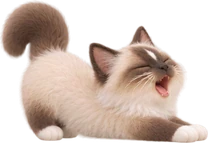
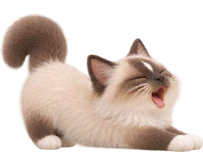
고양이 루비: 카운터 앞으로 나오게, 걸을 때 크기 흔들림 제거(같은 캔버스·몸 크기 맞춤), 이름 표시
Claude-Session: https://claude.ai/code/session_011wWXPaiuu8PZPFdYFKdKKY

diff --git a/src/components/House.tsx b/src/components/House.tsx
@@ -79,11 +79,6 @@ export default function House({ activities, alerts, cheers, labels, shown, speec
         <rect key={r.id} className="hot" x={r.rect.x} y={r.rect.y} width={r.rect.w} height={r.rect.h} fill="#fff" fillOpacity="0"
           onClick={(e) => { if (onMove) { const q = toHouse(e); if (q) return onMove(q.x, q.y) } onRoom(r.id) }} role="button" aria-label={`${r.name} 확대`} />
       ))}
-      {cats && (
-        <g>
-          <Cat id="cat1" start={{ x: 640, y: 408 }} offset={-10} avoid={avatarSpots} />
-        </g>
-      )}
       {/* 나(관리자)는 접수대 안쪽에 서 있고, 카운터 그림이 앞에 놓여요. 일을 받으러 온 아바타는 카운터 앞에 서야 하므로 그 뒤에 그려요 */}
       {/* 다크 하우스는 접수실 나무 바닥이 조금 더 아래에서 시작해서, 카운터와 나를 그만큼 내려요 */}
       <g transform={`translate(0 ${dark ? COUNTER_DARK_DROP : 0})`}>
@@ -101,6 +96,11 @@ export default function House({ activities, alerts, cheers, labels, shown, speec
         </text>
       </g>
       </g>
+      {cats && (
+        <g>
+          <Cat id="cat1" start={{ x: 640, y: 408 }} offset={-10} avoid={avatarSpots} />
+        </g>
+      )}
       {AVATARS.filter((a) => a.id !== 'user' && shown.includes(a.id)).map((info, i) => (
         <Avatar key={info.id} info={info} activity={activities[info.id]} alert={alerts[info.id as Staff]} cheer={cheers[info.id]} taskLabel={labels[info.id as Staff]} speech={speech[info.id]} onReceived={onReceived} onManualArrived={onManualArrived} dark={dark}
           delay={i * 0.3} selected={selected === info.id} onSelect={onSelect} />

diff --git a/src/cats.gen.ts b/src/cats.gen.ts
@@ -1,87 +1,87 @@
 // tools/process_cats.py 가 만든 파일이에요. 직접 고치지 마세요.
 export const CAT_DIM: Record<string, { w: number; h: number }> = {
  "walk0": {
-  "w": 136,
-  "h": 130
+  "w": 135,
+  "h": 129
  },
  "walk1": {
-  "w": 138,
-  "h": 126
+  "w": 135,
+  "h": 129
  },
  "walk2": {
-  "w": 129,
-  "h": 128
+  "w": 135,
+  "h": 129
  },
  "walk3": {
-  "w": 131,
-  "h": 126
+  "w": 135,
+  "h": 129
  },
  "walk4": {
-  "w": 132,
-  "h": 123
+  "w": 135,
+  "h": 129
  },
  "walk5": {
-  "w": 129,
-  "h": 122
+  "w": 135,
+  "h": 129
  },
  "walk6": {
-  "w": 127,
-  "h": 125
+  "w": 135,
+  "h": 129
  },
  "walk7": {
-  "w": 120,
-  "h": 126
+  "w": 135,
+  "h": 129
  },
  "sit0": {
-  "w": 126,
-  "h": 162
+  "w": 132,
+  "h": 163
  },
  "sit1": {
   "w": 132,
-  "h": 158
+  "h": 163
  },
  "sit2": {
-  "w": 126,
-  "h": 156
+  "w": 132,
+  "h": 163
  },
  "stretch0": {
-  "w": 167,
-  "h": 144
+  "w": 203,
+  "h": 152
  },
  "stretch1": {
-  "w": 208,
-  "h": 143
+  "w": 203,
+  "h": 152
  },
  "stretch2": {
-  "w": 197,
-  "h": 143
+  "w": 203,
+  "h": 152
  },
  "sleep0": {
-  "w": 150,
-  "h": 117
+  "w": 154,
+  "h": 119
  },
  "sleep1": {
-  "w": 156,
-  "h": 118
+  "w": 154,
+  "h": 119
  },
  "groom0": {
-  "w": 118,
-  "h": 164
+  "w": 117,
+  "h": 162
  },
  "groom1": {
-  "w": 111,
-  "h": 157
+  "w": 117,
+  "h": 162
  },
  "aegyo0": {
-  "w": 129,
-  "h": 156
+  "w": 187,
+  "h": 166
  },
  "aegyo1": {
-  "w": 139,
-  "h": 156
+  "w": 187,
+  "h": 166
  },
  "aegyo2": {
-  "w": 207,
-  "h": 140
+  "w": 187,
+  "h": 166
  }
 }

diff --git a/src/components/Cat.tsx b/src/components/Cat.tsx
@@ -119,13 +119,19 @@ export default function Cat({ id, start, offset, tint, onNear, avoid }: { id: st
   const W = d.w * SCALE, H = d.h * SCALE
   const flip = st.face === 'l' && !aegyo
   return (
-    <g className="cat" style={{ transform: `translate(${st.x}px, ${st.y}px)`, transition: `transform ${st.dur}s linear` }} onClick={pet} role="button" aria-label="고양이 쓰다듬기" cursor="pointer">
+    <g className="cat" style={{ transform: `translate(${st.x}px, ${st.y}px)`, transition: `transform ${st.dur}s linear` }} onClick={pet} role="button" aria-label="루비(고양이) 쓰다듬기" cursor="pointer">
       <ellipse cx="0" cy="3" rx={W * 0.36} ry="6" fill="#5b3a7a" opacity=".16" />
       <g className={aegyo ? 'catbounce' : ''}>
         <g transform={flip ? 'scale(-1 1)' : undefined}>
           <image href={asset(`cats/${key}.webp`)} x={-W / 2} y={-H} width={W} height={H} style={tint ? { filter: tint } : undefined} />
         </g>
       </g>
+      {aegyo && (
+        <g pointerEvents="none" className="tasktag">
+          <rect x="-50" y={-H - 52} width="100" height="40" rx="20" fill="#fff" fillOpacity=".96" stroke="#ff86b6" strokeWidth="4" />
+          <text x="0" y={-H - 24} textAnchor="middle" fontSize="26" fontWeight="800" fill="#5b4a78">루비</text>
+        </g>
+      )}
       {aegyo && (
         <g pointerEvents="none" key={hearts}>
           {([[-26, -92, 0], [0, -108, 0.15], [26, -90, 0.3]] as [number, number, number][]).map(([dx, dy, dl], i) => (

diff --git a/src/components/SettingsView.tsx b/src/components/SettingsView.tsx
@@ -147,9 +147,9 @@ export default function SettingsView({ tasks, guide, onGuide, cats, onCats, sett
       </section>
 
       <section>
-        <h3 className="sh">🐱 아기 고양이</h3>
-        <button className="ghost" onClick={() => onCats(!cats)}>{cats ? '🐱 고양이 숨기기' : '🐱 고양이 보이기'}</button>
-        <p className="muted">하우스 안을 돌아다녀요. 고양이를 누르면 애교를 부려요. 이 기기에서만 적용돼요.</p>
+        <h3 className="sh">🐱 아기 고양이 루비</h3>
+        <button className="ghost" onClick={() => onCats(!cats)}>{cats ? '🐱 루비 숨기기' : '🐱 루비 보이기'}</button>
+        <p className="muted">하우스 안을 돌아다녀요. 루비를 누르면 애교를 부려요. 이 기기에서만 적용돼요.</p>
       </section>
 
       <section>

diff --git a/tools/process_cats.py b/tools/process_cats.py
@@ -40,17 +40,32 @@ for names, row in zip(ROWS, rows):
         imgs[name] = sp.crop(sp.getchannel('A').point(lambda v: 255 if v > 8 else 0).getbbox())
 
 scale = STAND_PX / imgs['walk0'].height
+GROUPS = ['walk', 'sit', 'stretch', 'sleep', 'groom', 'aegyo']
+# 같은 동작의 그림끼리는 몸 크기(면적)를 맞추고, 같은 크기의 빈 캔버스에 발 높이·가운데를 맞춰 담아요.
+# (그림마다 따로 잘라 쓰면 걸을 때마다 고양이가 커졌다 작아졌다 해 보여요)
+def area(img):
+    return float((np.asarray(img.getchannel('A')) > 128).sum())
 out = os.path.join(ROOT, 'public/assets/cats')
 os.makedirs(out, exist_ok=True)
 for f in os.listdir(out): os.remove(os.path.join(out, f))
 meta = {}
-for name, img in imgs.items():
-    sp = img.resize((max(1, round(img.width * scale)), max(1, round(img.height * scale))), Image.LANCZOS)
-    sp.save(os.path.join(out, f'{name}.webp'), 'WEBP', quality=90, method=6)
-    meta[name] = {'w': sp.width, 'h': sp.height}
+for g in GROUPS:
+    names = [n for n in imgs if n.startswith(g)]
+    mean_a = np.mean([area(imgs[n]) for n in names])
+    scaled = {}
+    for n in names:
+        f = scale * (mean_a / area(imgs[n])) ** 0.5
+        im2 = imgs[n]
+        scaled[n] = im2.resize((max(1, round(im2.width * f)), max(1, round(im2.height * f))), Image.LANCZOS)
+    cw = max(v.width for v in scaled.values()); ch = max(v.height for v in scaled.values())
+    for n, v in scaled.items():
+        canvas = Image.new('RGBA', (cw, ch), (0, 0, 0, 0))
+        canvas.alpha_composite(v, ((cw - v.width) // 2, ch - v.height))
+        canvas.save(os.path.join(out, f'{n}.webp'), 'WEBP', quality=90, method=6)
+        meta[n] = {'w': cw, 'h': ch}
 with open(os.path.join(ROOT, 'src/cats.gen.ts'), 'w') as f:
     f.write('// tools/process_cats.py 가 만든 파일이에요. 직접 고치지 마세요.\nexport const CAT_DIM: Record<string, { w: number; h: number }> = ' + json.dumps(meta, indent=1) + '\n')
 mp = os.path.join(ROOT, 'public/assets/manifest.json')
 m = [x for x in json.load(open(mp)) if not x.startswith('cats/')] + [f'cats/{n}.webp' for n in imgs]
 json.dump(sorted(m), open(mp, 'w'))
-print(len(imgs), 'cats')
+print(len(imgs), 'cats', {g: meta[[n for n in meta if n.startswith(g)][0]] for g in GROUPS})
